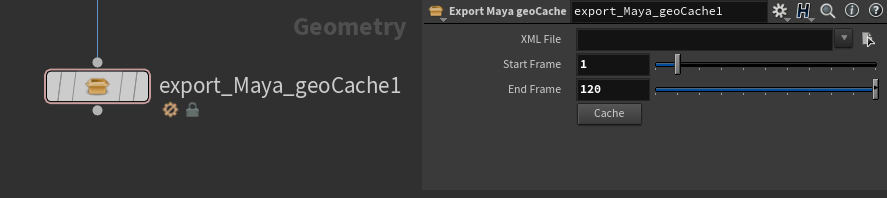
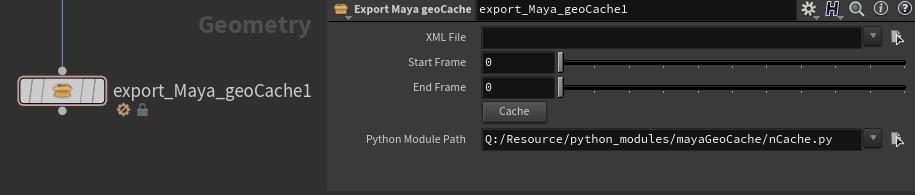
export maya geo cache doc

Changed region(s): [[0.0, 0.0, 1.0, 0.7692], [0.9436, 0.1538, 1.0, 0.2462], [0.9741, 0.6769, 1.0, 0.7692]]

diff --git a/README.md b/README.md
@@ -70,11 +70,13 @@ v@rotation -> rotationPP
 
 ---
 ## export_Maya_geoCache (SOP: Export Maya geoCache)  
-*Export Maya geometry point cache from Houdini directly.*  
+*Export Maya geometry point cache from Houdini directly. (Multiple objects is ok)*  
 
 REQUIREMENT:  
 1. Primitive attribute: path. 
 2. [source code: nCache.py](https://github.com/chordee/mayaGeoCache)  
+
+> path attribute is used to define the target in Maya. Therefore, the best way is using the alembic which was exported from Maya, and keep the path attribute so that can be used to export back.
 
 <img src="imgs/export_maya_geo_cache_node.png" alt="export Maya Geo cache node" height="240"/> 
 
